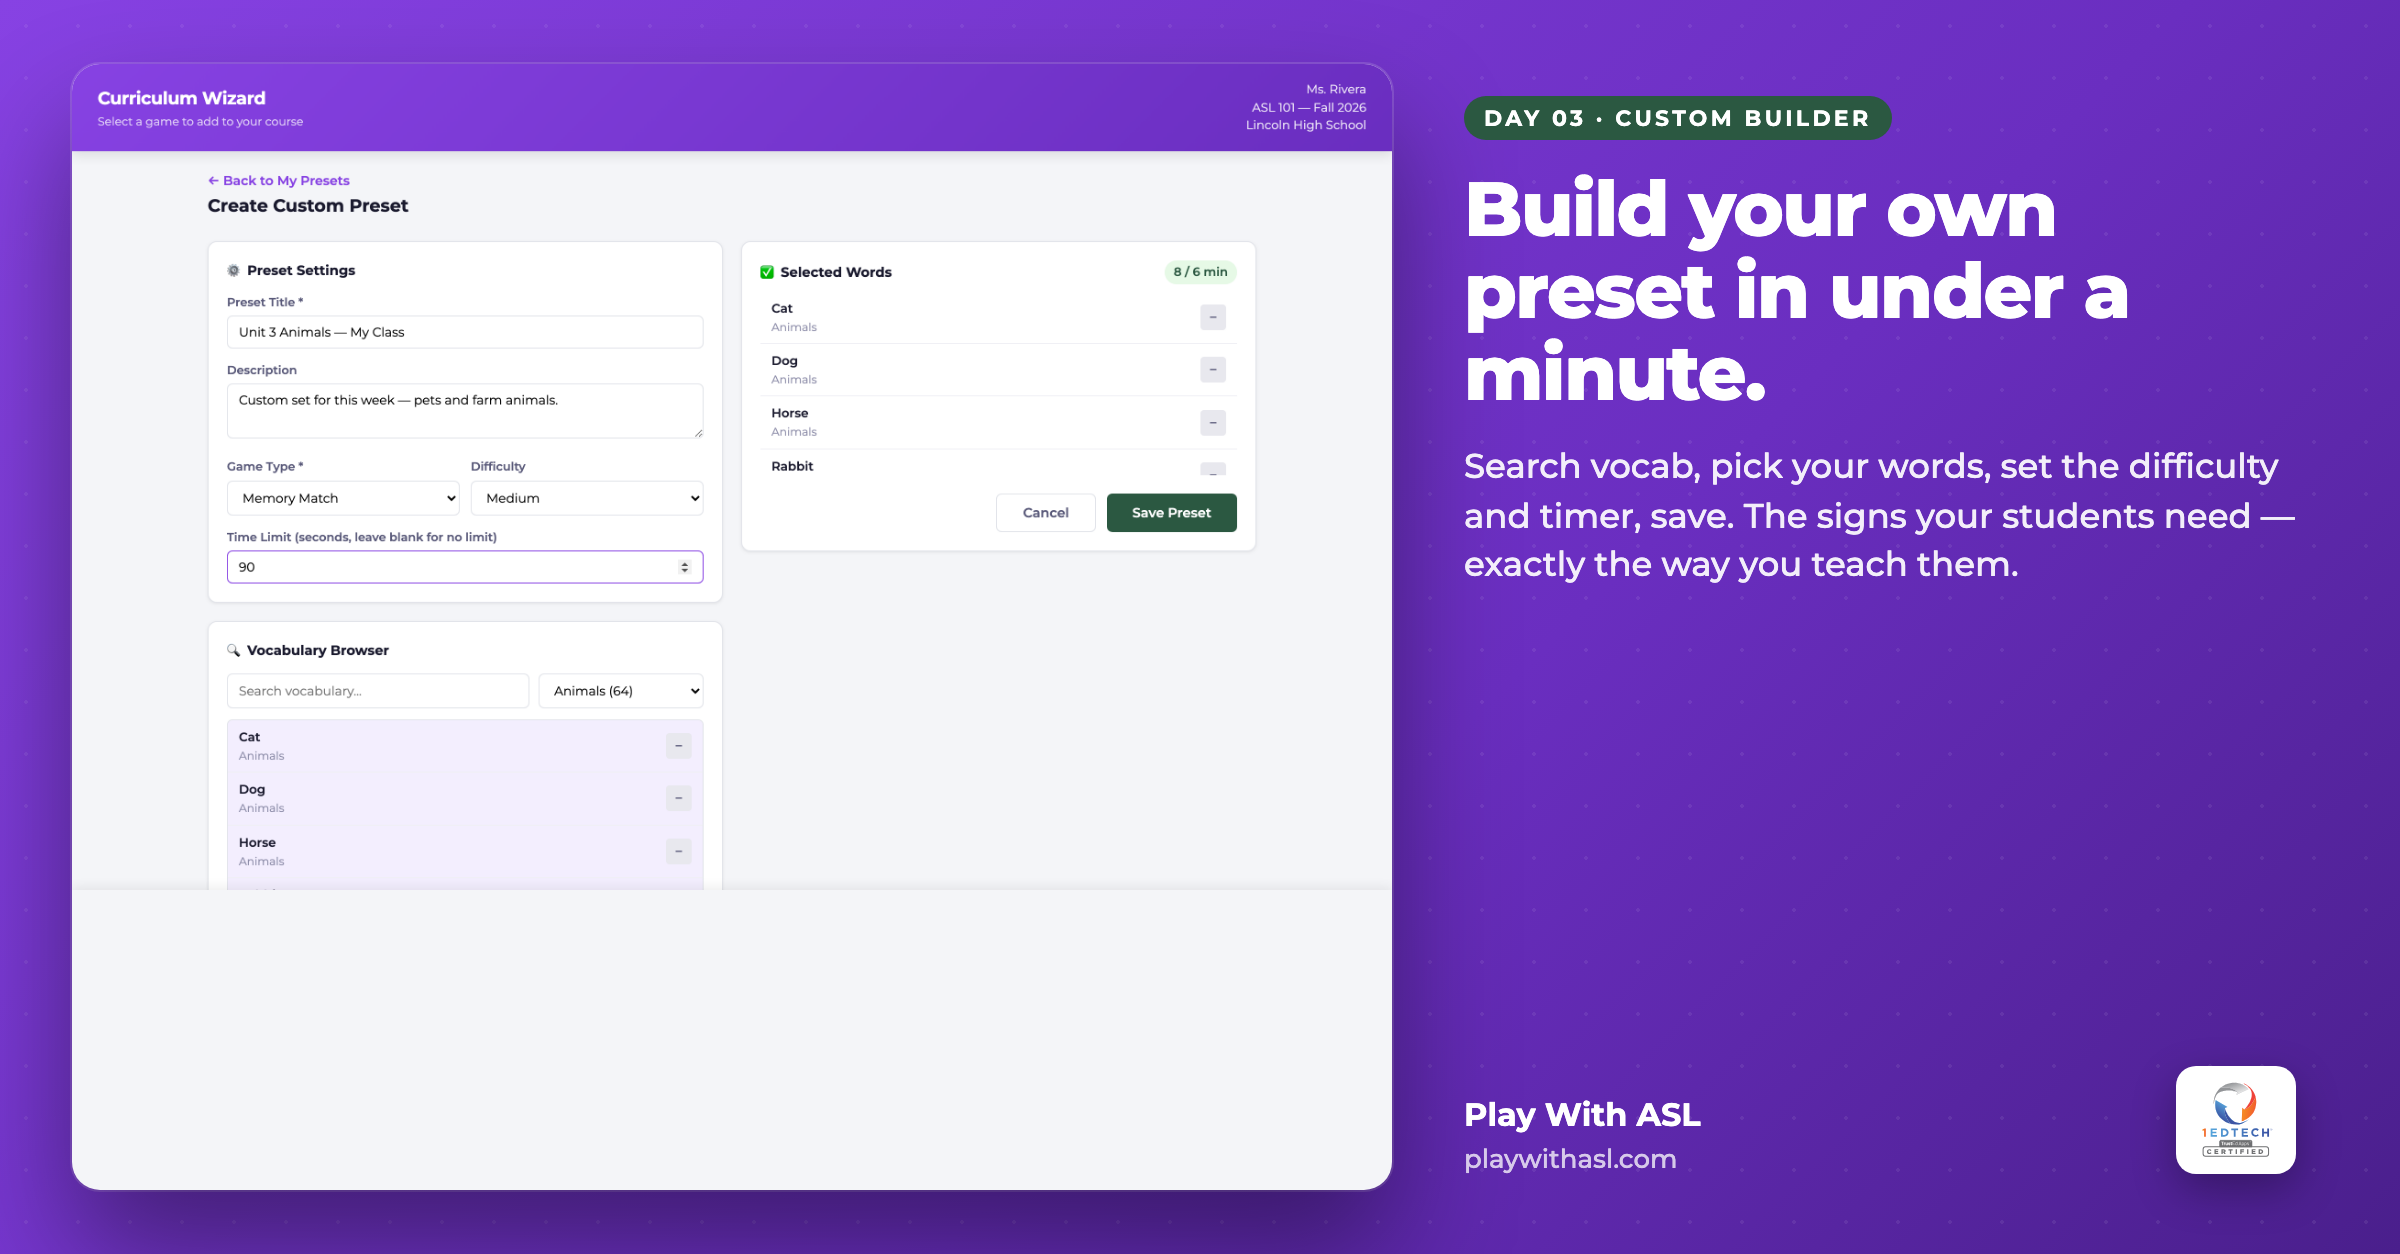
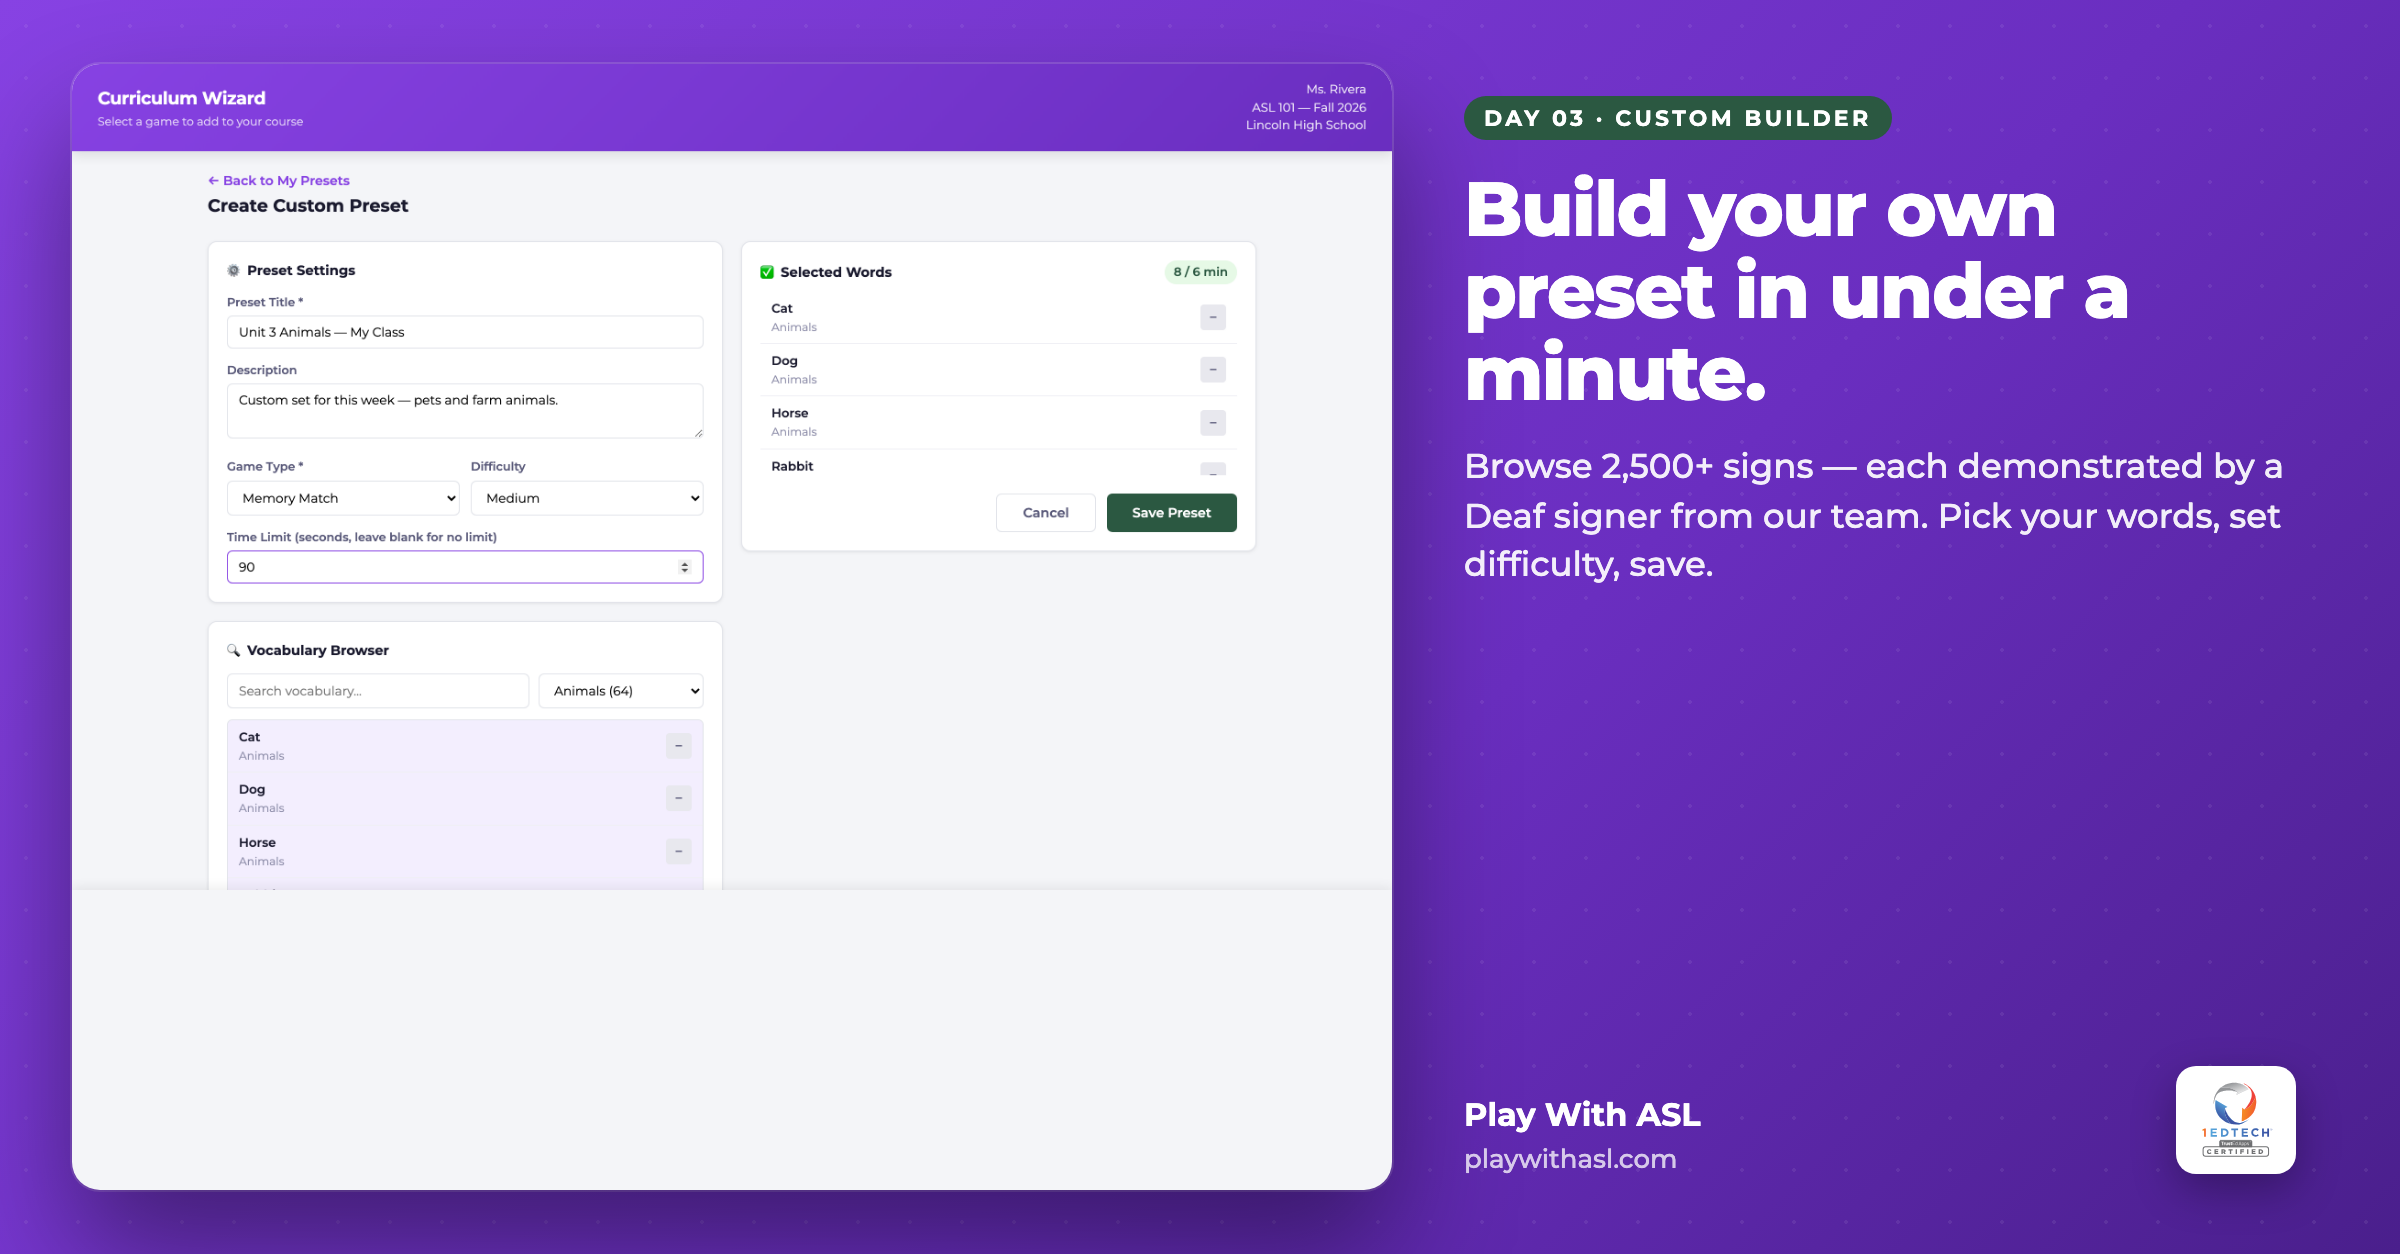
Update Day 3 cards + press-kit claims with signer-team differentiator
Day 3 (Custom Builder) cards now foreground the 2,500+ sign
vocabulary library demonstrated by a team of Deaf signers — the key
product differentiator behind the cert-level infrastructure. Adds a
"Product claims worth quoting" section to the press-kit README so
partners and press can lift the language verbatim.

Made-with: Cursor

Changed region(s): [[0.5938, 0.3421, 0.9688, 0.4665]]

diff --git a/press-kit/2026-04_lti-cert-launch/README.md b/press-kit/2026-04_lti-cert-launch/README.md
@@ -90,6 +90,20 @@ use uppercase tracked-out (`letter-spacing: .22em`).
 - **Compatible LMS platforms (out of the box):** Canvas, Blackboard,
   D2L Brightspace, Moodle, and any LTI 1.3-compliant LMS
 
+## Product claims worth quoting
+
+- **LTI Advantage Complete certified** — the highest LTI certification
+  level available to learning tools.
+- **Curriculum-aligned** out of the box to Signing Naturally, Master
+  ASL!, True Way ASL, Bravo Family Signs, and TWA+.
+- **2,500+ sign vocabulary library, demonstrated by a team of Deaf
+  signers** — not a single model on repeat. Different signers across
+  the library so students see the regional, stylistic, and
+  generational variety that ASL actually lives with in the world.
+- **One-click LMS deployment** via LTI Deep Linking 2.0; automatic
+  grade passback via Assignment & Grade Services 2.0; roster-aware
+  rendering via Names & Role Provisioning Services 2.0.
+
 ---
 
 ## Questions / coverage requests
